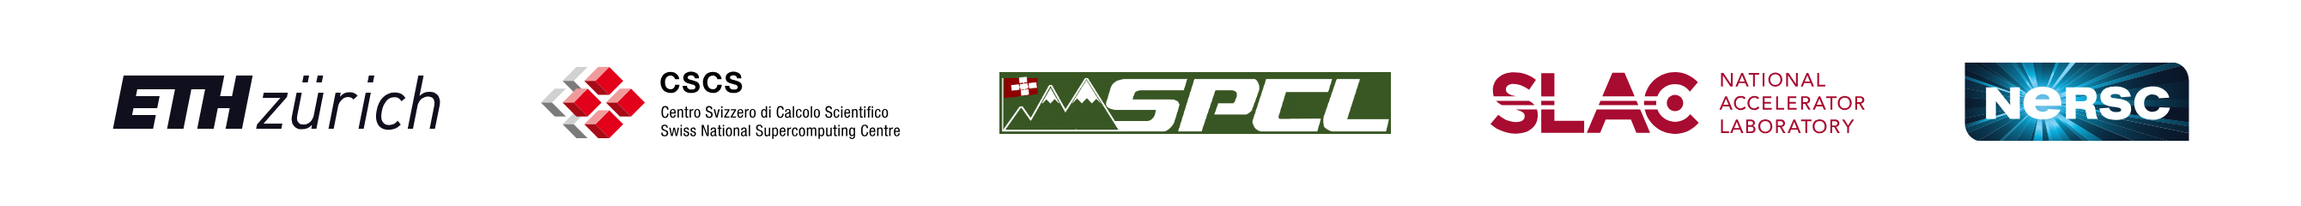
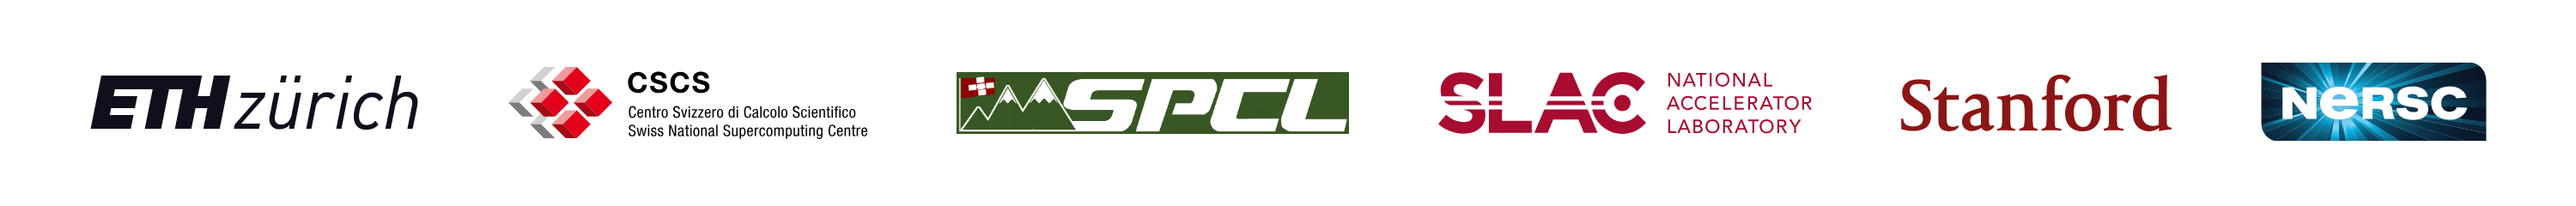
Add Stanford University to the supporters strip
Place the Stanford wordmark beside SLAC in the About-section logo
strip and name Stanford University in the support statement.

Changed region(s): [[0.031, 0.2917, 0.991, 0.7]]

diff --git a/resources/figures/supporters/strip.html b/resources/figures/supporters/strip.html
@@ -5,12 +5,12 @@
 <style>
   html, body { margin: 0; padding: 0; background: #ffffff; }
   .row {
-    width: 1340px;
+    width: 1500px;
     height: 120px;
     display: flex;
     align-items: center;
     justify-content: center;
-    gap: 58px;
+    gap: 52px;
     background: #ffffff;
   }
   img { display: block; }
@@ -22,6 +22,7 @@
   <img src="cscs.svg" style="height:42px">
   <img src="spcl.png" style="height:36px">
   <img src="slac.svg" style="height:36px">
+  <img src="stanford.svg" style="height:33px">
   <img src="nersc.svg" style="height:50px">
 </div>
 </body>

diff --git a/README.md b/README.md
@@ -57,12 +57,12 @@ workloads for the AGI era) and welcomes community contributions.
 SimLLM's architecture, its models and its ongoing maintenance are
 developed with the support of ETH Zurich, the Swiss National
 Supercomputing Centre (CSCS), the Scalable Parallel Computing
-Laboratory (SPCL) at ETH Zurich, SLAC National Accelerator Laboratory
-at Stanford and the National Energy Research Scientific Computing
-Center (NERSC) at Lawrence Berkeley National Laboratory.
+Laboratory (SPCL) at ETH Zurich, SLAC National Accelerator Laboratory,
+Stanford University and the National Energy Research Scientific
+Computing Center (NERSC) at Lawrence Berkeley National Laboratory.
 
 <p align="center">
-<img src="resources/figures/supporters.png" width="94%" alt="Logos of ETH Zurich, CSCS, SPCL, SLAC National Accelerator Laboratory and NERSC">
+<img src="resources/figures/supporters.png" width="94%" alt="Logos of ETH Zurich, CSCS, SPCL, SLAC National Accelerator Laboratory, Stanford University and NERSC">
 </p>
 
 ## Architecture
